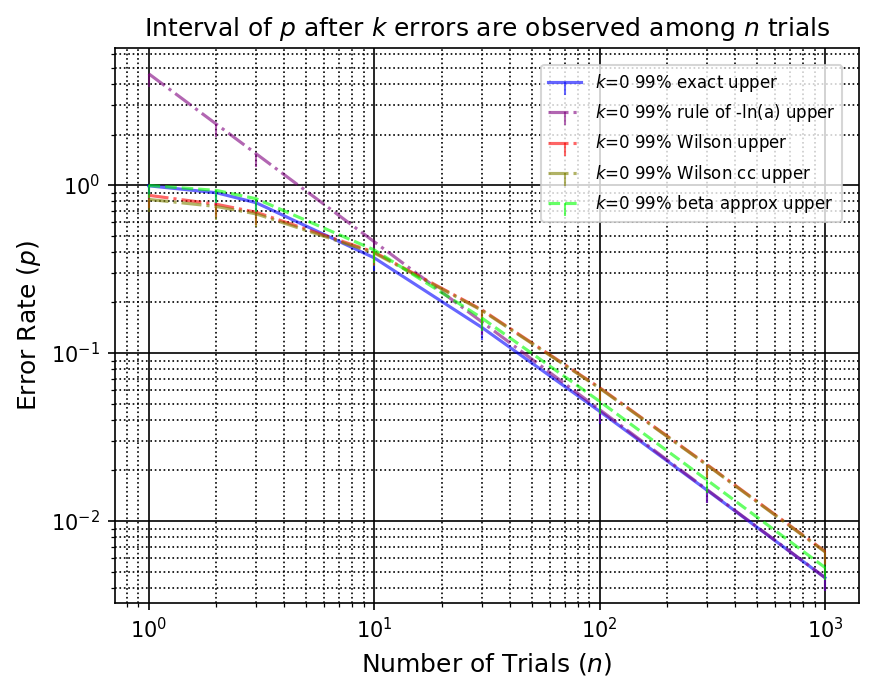
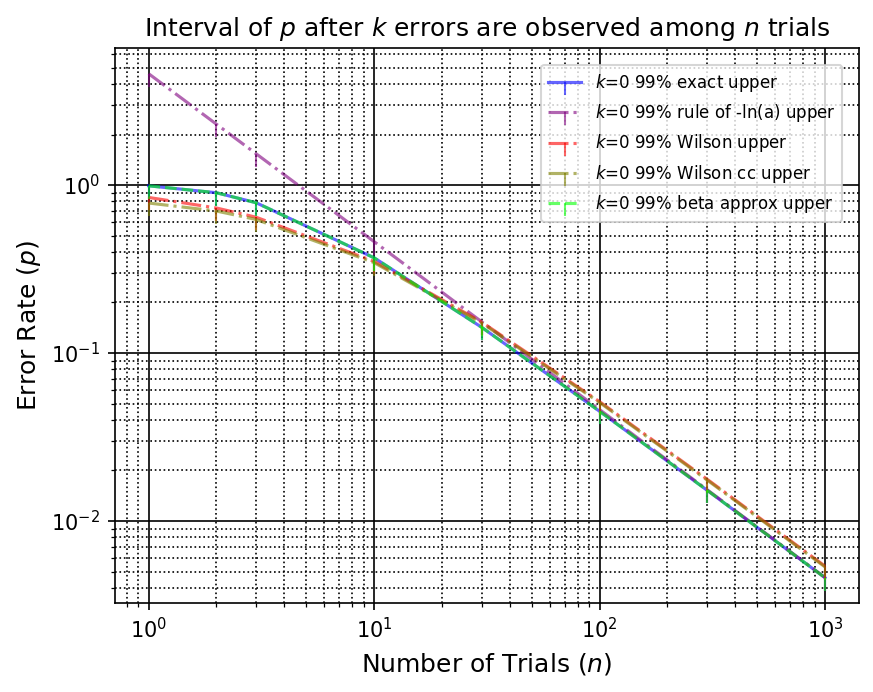
Have k=0 and k=n be one-sided for willson* and beta as well

Changed region(s): [[0.1546, 0.2731, 0.9588, 0.8497]]

diff --git a/ebcic/__init__.py b/ebcic/__init__.py
@@ -690,14 +690,18 @@ def beta_approx(params):
     k = params.k
     alpha = params.alpha
 
-    '''
-    # NOTE: Use exact_border() or exact() for k == 0 or k == n.
-    if k == 0 or k == n:
-        lower_p, upper_p = params.exact_border()
+    if k == 0:
+        # one-sided
+        lower_p = 0.0
+        upper_p = beta.ppf(1-alpha, k+1, n-k)
+    elif k == n:
+        # one-sided
+        lower_p = beta.ppf(alpha, k, n-k+1)
+        upper_p = 1.0
     else:
-    '''
-    lower_p = beta.ppf(alpha/2, k, n-k+1)
-    upper_p = beta.ppf(1-alpha/2, k+1, n-k)
+        # two-sided
+        lower_p = beta.ppf(alpha/2, k, n-k+1)
+        upper_p = beta.ppf(1-alpha/2, k+1, n-k)
     return lower_p, upper_p
 
 
@@ -844,13 +848,30 @@ def wilson_score(params):
     """
     n = params.n
     k = params.k
-    z = params.zah
+    if k == 0 or k == n:
+        # one-sided
+        z = params.za
+    else:
+        # two-sided
+        z = params.zah
+
     p = k / n
     mu = 2 * k + z**2
     half_width = z * np.sqrt(z**2 + 4 * k * (1 - p))
     denomi = 2 * (n + z**2)
-    lower_p = max(0, (mu - half_width) / denomi)
-    upper_p = min(1, (mu + half_width) / denomi)
+
+    if k == 0:
+        # one-sided
+        lower_p = 0.0
+        upper_p = min(1, (mu + half_width) / denomi)
+    elif k == n:
+        # one-sided
+        lower_p = max(0, (mu - half_width) / denomi)
+        upper_p = 1.0
+    else:
+        # two-sided
+        lower_p = max(0, (mu - half_width) / denomi)
+        upper_p = min(1, (mu + half_width) / denomi)
     return lower_p, upper_p
 
 
@@ -877,13 +898,30 @@ def wilson_score_cc(params):
     """
     n = params.n
     k = params.k
-    z = params.zah
+    if k == 0 or k == n:
+        # one-sided
+        z = params.za
+    else:
+        # two-sided
+        z = params.zah
+
     p = k / n
     mu = 2 * k + z**2
     half_width = 1 + z * np.sqrt(z**2 - 1 / n + 4 * k * (1 - p) + (4 * p - 2))
     denomi = 2 * (n + z**2)
-    lower_p = max(0, (mu - half_width) / denomi)
-    upper_p = min(1, (mu + half_width) / denomi)
+
+    if k == 0:
+        # one-sided
+        lower_p = 0.0
+        upper_p = min(1, (mu + half_width) / denomi)
+    elif k == n:
+        # one-sided
+        lower_p = max(0, (mu - half_width) / denomi)
+        upper_p = 1.0
+    else:
+        # two-sided
+        lower_p = max(0, (mu - half_width) / denomi)
+        upper_p = min(1, (mu + half_width) / denomi)
     return lower_p, upper_p
 
 

diff --git a/README.md b/README.md
@@ -63,7 +63,7 @@ These programs are mainly for researchers, developers, and designers who calcula
         python -m ebcic -h
         ~~~
 
-3. Cf. the [examples](#Examples) below.
+3. Cf. the [examples](#examples) below.
 
 ### MATLAB (with Python and `ebcic` package)
 
@@ -202,9 +202,9 @@ normal | `Normal approximation interval` or `Wald confidence interval`. | `0<k<n
 
 Result:
 
-As you can see from the following figure, '`rule of -ln(a)`' is a good approximation for `k=0` and large `n` depending on the confidence percentage.
+As you can see from the following figure, '`rule of -ln(a)`' for large `n` and '`beta_approx`' are good approximations for `k=0`.
 
-> For `k=0`, interval_graph(), v0.0.3 or later, displays only upper intervals since their lower intervals must be `0` (though some approximations, such as '`Wilson cc`', output wrong values than `0`).
+> For `k=0`, interval_graph() of EBCIC v0.0.3 or later, displays only one-sided upper intervals since their lower intervals must be `0` (though some approximations, such as '`Wilson cc`', output wrong values than `0`).
 
 ![Comparison of exact and approximated intervals for k=0](./figs/comparison_k0.png)
 
@@ -232,10 +232,10 @@ interval_graph(GraProps(
 
 Result:
 
-As you can see from the following figures and warned in a lot of papers, such as [BLC01], normal approximation intervals are not good approximation for small `k`.
+As you can see from the following figures and as warned in many papers such as [BLC01], normal-approximation intervals are not good approximations for small `k`.
 
-Upper intervals of the other approximations look tight.
-The approximation using beta function looks tight except for the border `k=n=1`.
+The upper intervals of the other approximations look tight.
+The approximation using beta function looks tight where the confidence interval for `k=n=1` is one-sided.
 
 ![Comparison of exact and approximated intervals for k=1](./figs/comparison_k1.png)
 
@@ -315,24 +315,23 @@ At least for `k=100` and confidence percentage, `confi_perc=99.0`, all these app
 
 ## Bibliography
 
-[CP34]:
-Clopper, C. and Pearson, E.S. "The use of confidence or fiducial limits illustrated in the case of the binomial," Biometrika. 26 (4): pp.404-413, 1934
+[CP34] Clopper, C. and Pearson, E.S. "The use of confidence or fiducial limits illustrated in the case of the binomial," Biometrika. 26 (4): pp.404-413, 1934
 
-[Lou81]: Louis, T.A. "Confidence intervals for a binomial parameter after observing no successes," The American Statistician, 35(3), p.154, 1981
+[Lou81] Louis, T.A. "Confidence intervals for a binomial parameter after observing no successes," The American Statistician, 35(3), p.154, 1981
 
-[HL83]: Hanley, J.A. and Lippman-Hand, A. "If nothing goes wrong, is everything all right? Interpreting zero numerators," Journal of the American Medical Association, 249(13), pp.1743-1745, 1983
+[HL83] Hanley, J.A. and Lippman-Hand, A. "If nothing goes wrong, is everything all right? Interpreting zero numerators," Journal of the American Medical Association, 249(13), pp.1743-1745, 1983
 
-[JL97]: Jovanovic, B.D. and Levy, P.S. "A look at the rule of three," The American Statistician, 51(2), pp.137-139, 1997
+[JL97] Jovanovic, B.D. and Levy, P.S. "A look at the rule of three," The American Statistician, 51(2), pp.137-139, 1997
 
-[Way00]: Wayman, J.L. "Technical testing and evaluation of biometric identification devices," Biometrics: Personal identification in networked society, edited by A.K. Jain, et al., Kluwer, pp.345-368, 2000
+[Way00] Wayman, J.L. "Technical testing and evaluation of biometric identification devices," Biometrics: Personal identification in networked society, edited by A.K. Jain, et al., Kluwer, pp.345-368, 2000
 
-[ISO/IEC19795-1]: ISO/IEC 19795-1, "Information technology-Biometric performance testing and reporting-Part 1: Principles and framework" <!-- 2006 2021 -->
+[ISO/IEC19795-1] ISO/IEC 19795-1, "Information technology-Biometric performance testing and reporting-Part 1: Principles and framework" <!-- 2006 2021 -->
 
-[New98]: Newcombe, R.G. "Two-sided confidence intervals for the single proportion: comparison of seven methods," Statistics in Medicine. 17 (8): pp.857-872, 1998
+[New98] Newcombe, R.G. "Two-sided confidence intervals for the single proportion: comparison of seven methods," Statistics in Medicine. 17 (8): pp.857-872, 1998
 
-[Wil27]: Wilson, E.B. "Probable inference, the law of succession, and statistical inference," Journal of the American Statistical Association. 22 (158): pp.209-212, 1927
+[Wil27] Wilson, E.B. "Probable inference, the law of succession, and statistical inference," Journal of the American Statistical Association. 22 (158): pp.209-212, 1927
 
-[BLC01]: Brown, L.D., Cai, T.T. and DasGupta, A. "Interval Estimation for a Binomial Proportion," Statistical Science. 16 (2): pp. 101-133, 2001
+[BLC01] Brown, L.D., Cai, T.T. and DasGupta, A. "Interval Estimation for a Binomial Proportion," Statistical Science. 16 (2): pp. 101-133, 2001
 
 ## [Changelog](./CHANGELOG.md)
 

diff --git a/README-jp.md b/README-jp.md
@@ -206,9 +206,9 @@ normal | 二項分布を正規分布へ近似して求めた区間(`Normal appro
 
 描画結果:
 
-`k=0`の場合は、`n`が大きな場合に '`Rule of -ln(a)`' が良い近似になっていることが分かります。
+`k=0` の場合は、'`beta_approx`' と `n`が大きな場合に '`Rule of -ln(a)`' が良い近似になっていることが分かります。
 
-> EBCIC 0.0.3以降の interval_graph() では、 `k=0` の信頼区間は上限のみを描画するようにしてあります。(`k=0`の場合の下限は`0`であることが自明なのですが、'`Wilson cc`'などの近似を用いる方法では `0` とは異なる値が出力されるため。)
+> EBCIC 0.0.3以降の interval_graph() では、 `k=0` の信頼区間は片側の上限のみを描画するようにしてあります。(`k=0`の場合の下限は`0`であることが自明なのですが、'`Wilson cc`'などの近似を用いる方法では `0` とは異なる値が出力されるため。)
 
 ![Comparison of exact and approximated intervals for k=0](./figs/comparison_k0.png)
 
@@ -236,7 +236,7 @@ interval_graph(GraProps(
 
 - [BLC01]などの多くの文献で指摘されているとおり、'`normal`' (`Normal approximation interval` または `Wald confidence interval`)は `k` が小さい場合によい近似となっていないことが分かります。
 - 上限については '`normal`' **以外**はよい近似になっていることが分かります。
-- ベータ関数を使った近似は `k=n=1` **以外**はよい近似になっていることが分かります。
+- ベータ関数を使った近似は上下限共によい近似になっていることが分かります。(`k=n=1` の場合の信頼区間は片側になります。)
 
 ![Comparison of exact and approximated intervals for k=1](./figs/comparison_k1.png)
 
@@ -312,24 +312,23 @@ interval_graph(GraProps(
 
 ## 参考文献
 
-[CP34]:
-Clopper, C. and Pearson, E.S. "The use of confidence or fiducial limits illustrated in the case of the binomial," Biometrika. 26 (4): pp.404-413, 1934
+[CP34] Clopper, C. and Pearson, E.S. "The use of confidence or fiducial limits illustrated in the case of the binomial," Biometrika. 26 (4): pp.404-413, 1934
 
-[Lou81]: Louis, T.A. "Confidence intervals for a binomial parameter after observing no successes," The American Statistician, 35(3), p.154, 1981
+[Lou81] Louis, T.A. "Confidence intervals for a binomial parameter after observing no successes," The American Statistician, 35(3), p.154, 1981
 
-[HL83]: Hanley, J.A. and Lippman-Hand, A. "If nothing goes wrong, is everything all right? Interpreting zero numerators," Journal of the American Medical Association, 249(13), pp.1743-1745, 1983
+[HL83] Hanley, J.A. and Lippman-Hand, A. "If nothing goes wrong, is everything all right? Interpreting zero numerators," Journal of the American Medical Association, 249(13), pp.1743-1745, 1983
 
-[JL97]: Jovanovic, B.D. and Levy, P.S. "A look at the rule of three," The American Statistician, 51(2), pp.137-139, 1997
+[JL97] Jovanovic, B.D. and Levy, P.S. "A look at the rule of three," The American Statistician, 51(2), pp.137-139, 1997
 
-[Way00]: Wayman, J.L. "Technical testing and evaluation of biometric identification devices," Biometrics: Personal identification in networked society, edited by A.K. Jain, et al., Kluwer, pp.345-368, 2000
+[Way00] Wayman, J.L. "Technical testing and evaluation of biometric identification devices," Biometrics: Personal identification in networked society, edited by A.K. Jain, et al., Kluwer, pp.345-368, 2000
 
-[ISO/IEC19795-1]: ISO/IEC 19795-1, "Information technology - Biometric performance testing and reporting - Part 1: Principles and framework" <!-- 2006 2021 -->
+[ISO/IEC19795-1] ISO/IEC 19795-1, "Information technology - Biometric performance testing and reporting - Part 1: Principles and framework" <!-- 2006 2021 -->
 
-[New98]: Newcombe, R.G. "Two-sided confidence intervals for the single proportion: comparison of seven methods," Statistics in Medicine. 17 (8): pp.857-872, 1998
+[New98] Newcombe, R.G. "Two-sided confidence intervals for the single proportion: comparison of seven methods," Statistics in Medicine. 17 (8): pp.857-872, 1998
 
-[Wil27]: Wilson, E.B. "Probable inference, the law of succession, and statistical inference," Journal of the American Statistical Association. 22 (158): pp.209-212, 1927
+[Wil27] Wilson, E.B. "Probable inference, the law of succession, and statistical inference," Journal of the American Statistical Association. 22 (158): pp.209-212, 1927
 
-[BLC01]: Brown, L.D., Cai, T.T. and DasGupta, A. "Interval Estimation for a Binomial Proportion," Statistical Science. 16 (2): pp. 101-133, 2001
+[BLC01] Brown, L.D., Cai, T.T. and DasGupta, A. "Interval Estimation for a Binomial Proportion," Statistical Science. 16 (2): pp. 101-133, 2001
 
 ## [Changelog](./CHANGELOG.md)
 
